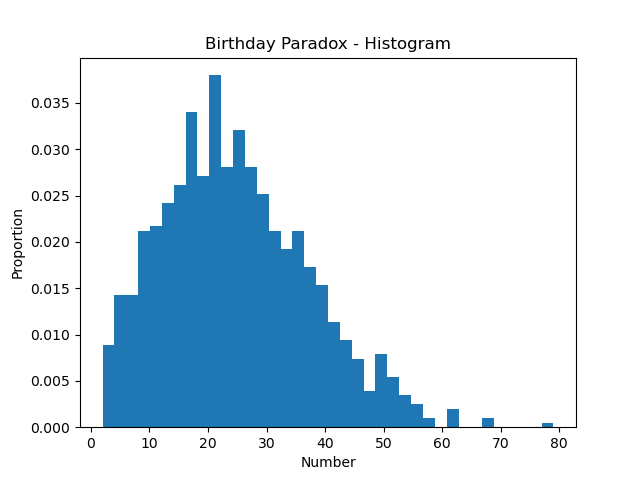
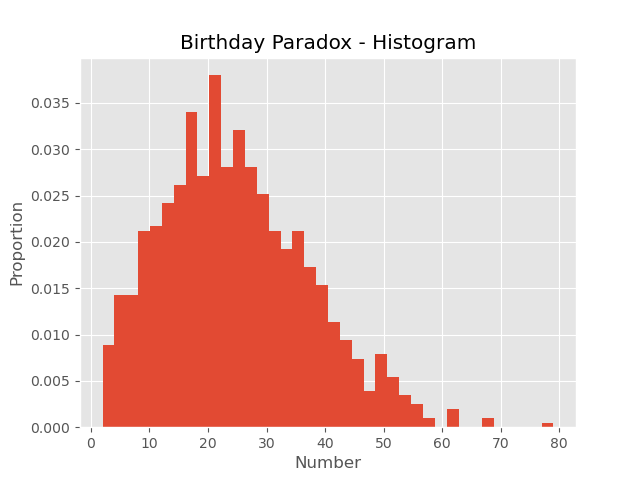
slight change to birthday paradox example

diff --git a/simulations/birthday_paradox/birthday_paradox_02.py b/simulations/birthday_paradox/birthday_paradox_02.py
@@ -2,8 +2,10 @@ import sys
 import random
 
 import numpy             as np
-import scipy.stats       as st
 import matplotlib.pyplot as plt
+import statistics        as st
+
+from matplotlib import style
 
 
 def simulation():
@@ -31,7 +33,7 @@ def print_results(numbers, iterations):
     print()
     print('       Mean: %8.5f' % (np.mean(numbers)))
     print('        Std: %8.5f' % (np.std(numbers)))
-    print('       Mode: %8d'   % (st.mode(numbers, keepdims = True)[0][0]))
+    print('       Mode: %8d'   % (st.mode(numbers)))
     print()
 
 
@@ -46,12 +48,17 @@ def print_prob(numbers, people):
 
 
 def plot_results(numbers):
+    style.use("ggplot")
+
     plt.clf()
-    plt.figure(1, facecolor = 'w')
-    plt.hist(numbers, bins = int((np.max(numbers) - np.min(numbers)) / 2), density = True)
     plt.title('Birthday Paradox - Histogram')
+
     plt.xlabel('Number')
     plt.ylabel('Proportion')
+
+    # plt.figure(1, facecolor = 'w')
+    plt.hist(numbers, bins = int((np.max(numbers) - np.min(numbers)) / 2), density = True)
+
     plt.savefig('./images/birthday_paradox/birthday_paradox_%s.png' % len(numbers), format = 'png')
     plt.close()
 
